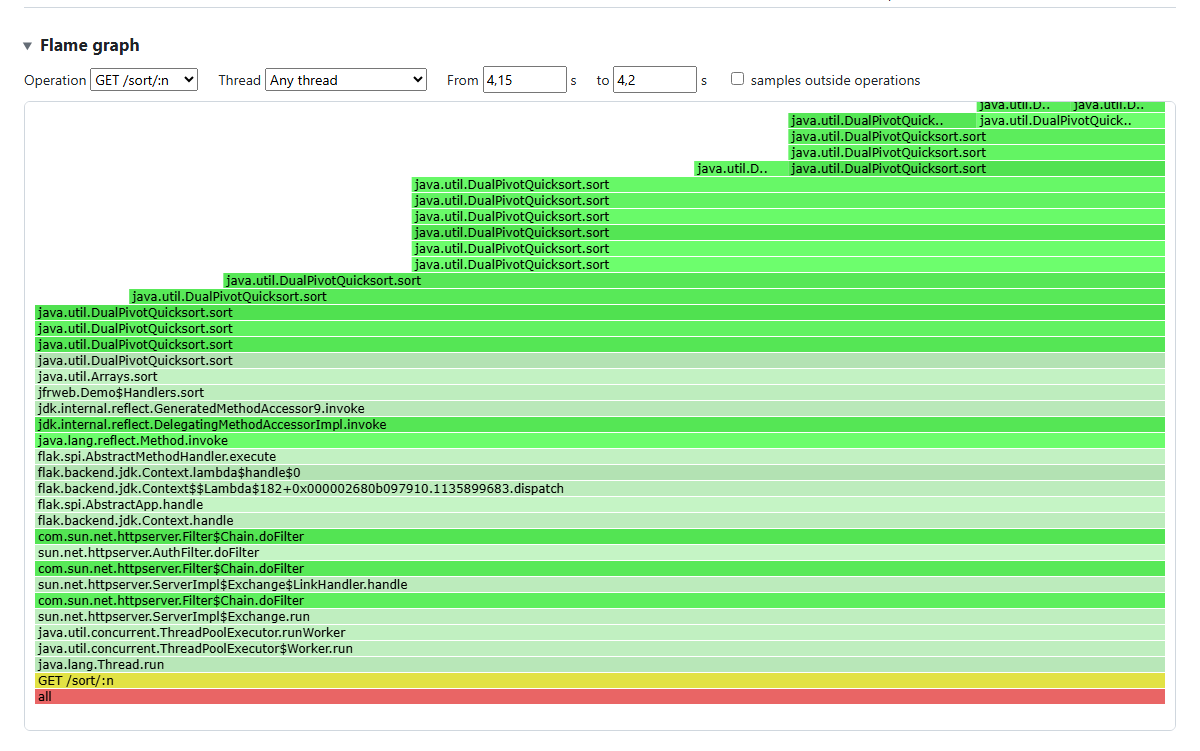
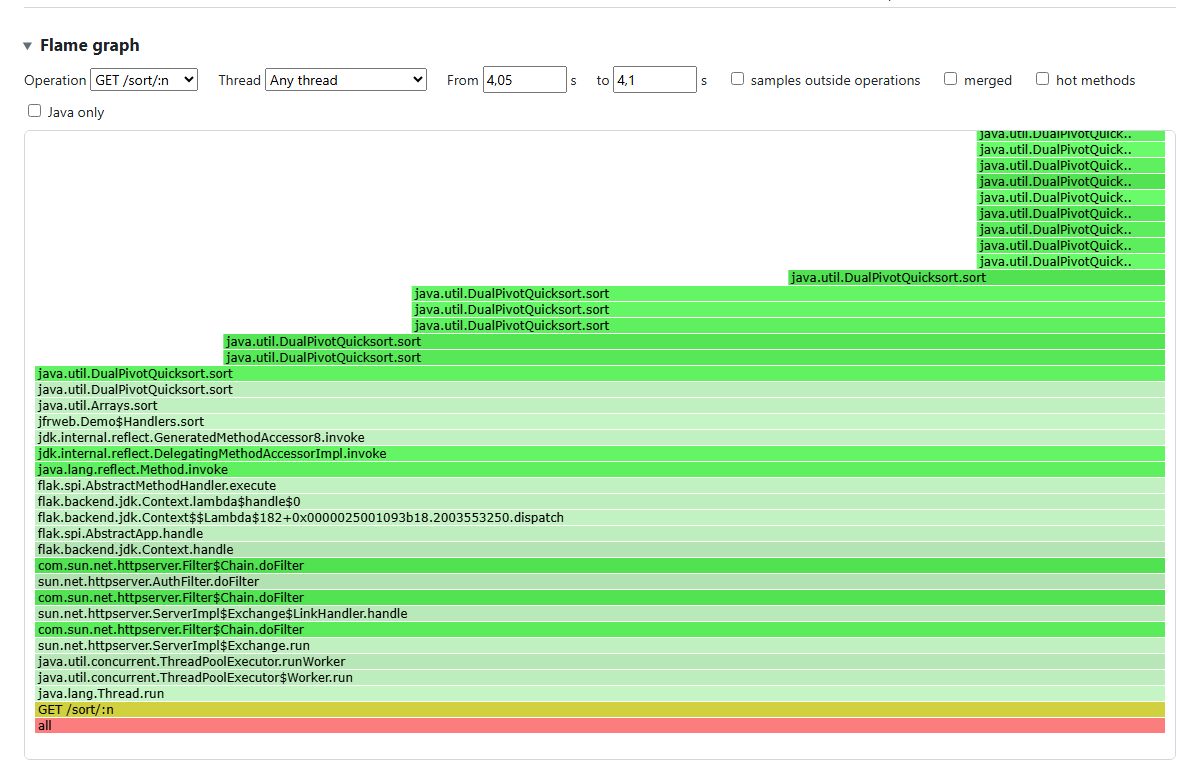
0.4.0: README coordinates and JBang alias on 0.4.0, local builds 0.5.0-SNAPSHOT; roadmap brought up to date; screenshots retaken, with the top bar in its place

diff --git a/ROADMAP.md b/ROADMAP.md
@@ -138,7 +138,8 @@ thread of periodic events uses 0.09 s of CPU per minute, about 0.15% of a core. 
   from their fields, and a field telling a failure (`EventMappings`, `operation-events.properties`)
 - [x] Mapped events in the live view, history, snapshots and auto mode of an embedded profiler,
   streamed in-process while something listens to operations
-- [ ] Nested operations on a thread (an operation inside a request), shown by the innermost
+- [x] Nested operations on a thread (an operation inside a request), shown by the innermost
+- [x] Events known out of the box, with no mapping: Quarkus REST requests, JUnit tests
 - [ ] Other frameworks (e.g. RPC), through a bridge module that starts jfr-web and feeds the
   API from the framework's hooks: services never depend on jfr-web
 
@@ -168,6 +169,9 @@ already wired must follow.
   click on one narrows the slowest and the flame graph to it, in that bucket
 - [x] Live operations: arm a session on the next call of one of them
 - [x] Sessions named: when started, armed or later
+- [x] Session ids kept across restarts: a snapshot keeps its id, and none is given twice
+- [x] Flame graphs merged across operations, reversed (hot methods), or Java only
+- [x] Top bar always visible; a session's row opens its report
 - [ ] Session named after the actual path of the call that started it, or a flame graph of one
   call showing its path: parked, a session and a flame graph aggregate calls with different
   values

diff --git a/README.md b/README.md
@@ -114,15 +114,15 @@ repositories {
 }
 
 dependencies {
-  implementation 'com.github.pcdv:jfr-web:0.3.0'
+  implementation 'com.github.pcdv:jfr-web:0.4.0'
 }
 ```
 
-To try your own build, publish it locally as the next version, `0.4.0-SNAPSHOT`:
+To try your own build, publish it locally as the next version, `0.5.0-SNAPSHOT`:
 
 ```sh
-./gradlew publish -Pversion=0.4.0-SNAPSHOT               # local Ivy repository
-./gradlew publishToMavenLocal -Pversion=0.4.0-SNAPSHOT   # local Maven repository
+./gradlew publish -Pversion=0.5.0-SNAPSHOT               # local Ivy repository
+./gradlew publishToMavenLocal -Pversion=0.5.0-SNAPSHOT   # local Maven repository
 ```
 
 ## Embedded
@@ -423,7 +423,7 @@ More: [docs/requirements.md](docs/requirements.md) for what the project sets out
 
 ## Releasing
 
-Push a tag like `0.4.0`. JitPack builds the library from it, and the release workflow attaches
+Push a tag like `0.5.0`. JitPack builds the library from it, and the release workflow attaches
 the zip, the tarball and the single jar to a GitHub release (made for the tag if there isn't one
 yet). Then bump the version in `jbang-catalog.json` and in the README's coordinates.
 
